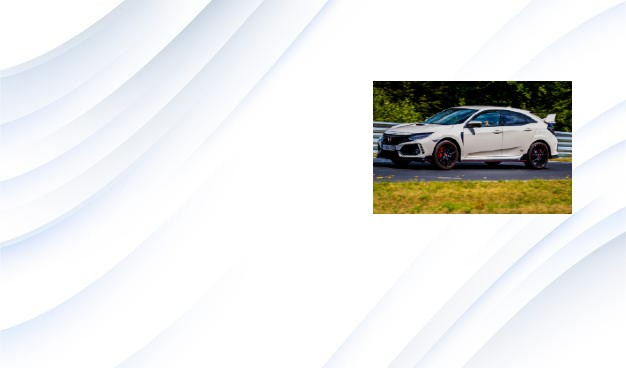
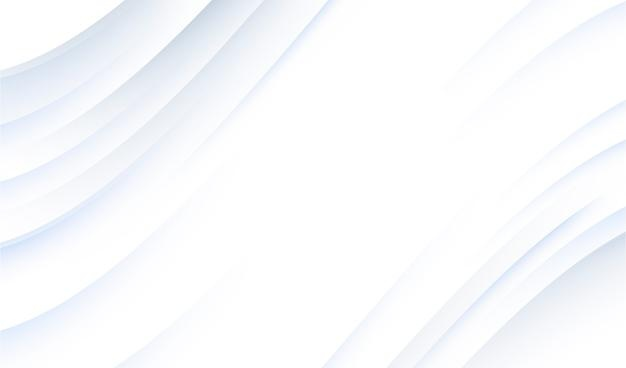
Updated about and ride pages

Changed region(s): [[0.5767, 0.2092, 0.9409, 0.5978]]

diff --git a/templates/ride.html b/templates/ride.html
@@ -52,15 +52,15 @@ CITY : <input type="text" name="city"/><br><br>
 	
 	
 	<div class="rightContent">
-	<h1> SKATĪT AUTO UN LIKMES</h1>
+	<h1> View cars and costs</h1>
 	<form action="viewcar.js" method="post">
-		Lai skatītu, atlasiet Automašīnas tips: <select name="Ctype">
-<option>Kompakts</option>
-<option>Vidējs</option>
-<option>Liels</option>
-<option>Džips</option>
-<option>Busiņš</option>
-<option>Smagā mašīna</option>
+		To show, pick car type: <select name="Ctype">
+<option>Compact</option>
+<option>Medium</option>
+<option>Big</option>
+<option>SUV</option>
+<option>Bus</option>
+<option>Truck</option>
 </select>
 <input type="submit" name="submit1" value="View">
 </form>
@@ -68,19 +68,19 @@ CITY : <input type="text" name="city"/><br><br>
 <br><br><br><br>
 
 <h1> 
-	ATJAUNINĀT NOMAS LIKMES </h1>
+	Refresh car rent costs </h1>
 <form action="update.js" method="post">
-	Lai atjauninātu, atlasiet Automašīnas tips: <select name = "Ctype">
-<option>Kompakts</option>
-<option>Vidējs</option>
-<option>Liels</option>
-<option>Džips</option>
-<option>Busiņš</option>
-<option>Smagā mašīna</option>
+	To refresh, pick car type: <select name = "Ctype">
+<option>Compact</option>
+<option>Medium</option>
+<option>Big</option>
+<option>SUV</option>
+<option>Bus</option>
+<option>Truck</option>
 </select><br><br>
 
-Dienas likme: <input type="text" name="udrate"/><br><br>
-Nedēļas likme: <input type="text" name="uwrate"/><br><br>
+Day costs: <input type="text" name="udrate"/><br><br>
+Week costs: <input type="text" name="uwrate"/><br><br>
 <input type="submit" name="submit1" value="Update">
 </form>
 	</div>

diff --git a/templates/about.html b/templates/about.html
@@ -33,17 +33,29 @@
   <!-- Section for about -->
 
   <section class="home-screen" id="home-screen">
+    <img src="static/img/ABOUT-PAGE.jpg" alt="about-page.img " width="400px" height="300px">
     <div class="about-screen">
+      <br>
+      <br>
       <h2>ZZ CAR RENTAL</h2>
       <h3>We are a proven company that is trusted by multiple users </h3>
       <br>
-      <br>
       <p>We work as intermediaries who compile requests from customers with car owners</p>
-      <p>How our process works</p>
+      <br>
+      <h4>How our process works</h4>
       <br>
       <p>1. Our clients put order requests in our website </p>
+      <br>
       <p>2. We process client orders and check if those dates are available</p>
+      <br>
       <p>3. We contact with our car owners and process details with them about client orders</p>
+      <br>
+    <div class="ads">
+      <script data-num-rows="1"
+src="https://s3-us-west-2.amazonaws.com/kaboodle/kaboodle.js"
+type="text/javascript"></script> 
+      
+      
     </div>
 
   

diff --git a/static/css/styles.css b/static/css/styles.css
@@ -98,13 +98,14 @@ Sign in and Sign on*/
   width: 100%;
   min-height: 100vh;
   position: relative;
-  background: url(static/img/background.jpg);
   background-position: center right;
   background-size: cover;
   display: grid;
   align-items: center;
   grid-template-columns: repeat(2, 1fr);
 }
+
+
 
 
 /*texts index page*/
@@ -171,8 +172,17 @@ about-screen h3{
 
 }
 
-/* Ride page */
-.leftContent h1{
-  
 
+
+
+/* Ride page */
+
+
+/*About page*/
+
+about-page.img {
+  position: relative;
+  top: 60px;
+  left: 100px;
 }
+

diff --git a/templates/index.html b/templates/index.html
@@ -37,6 +37,7 @@
       <br>
       <br>
       <br>
+      
       <div class="app-stores">
         <p>Get aplication</p>
         <a href="https://www.apple.com/app-store/">
@@ -46,6 +47,7 @@
         <a href="https://play.google.com/store/search?q=car%20rental">
         <img src="static/img/get_it_on_gp.png" alt="">
         </a>
+      
       </div>
       </div>
 
@@ -79,6 +81,7 @@
         </form>
       </div>
   </section>
+
 
 
   <!-- Link to JS -->
